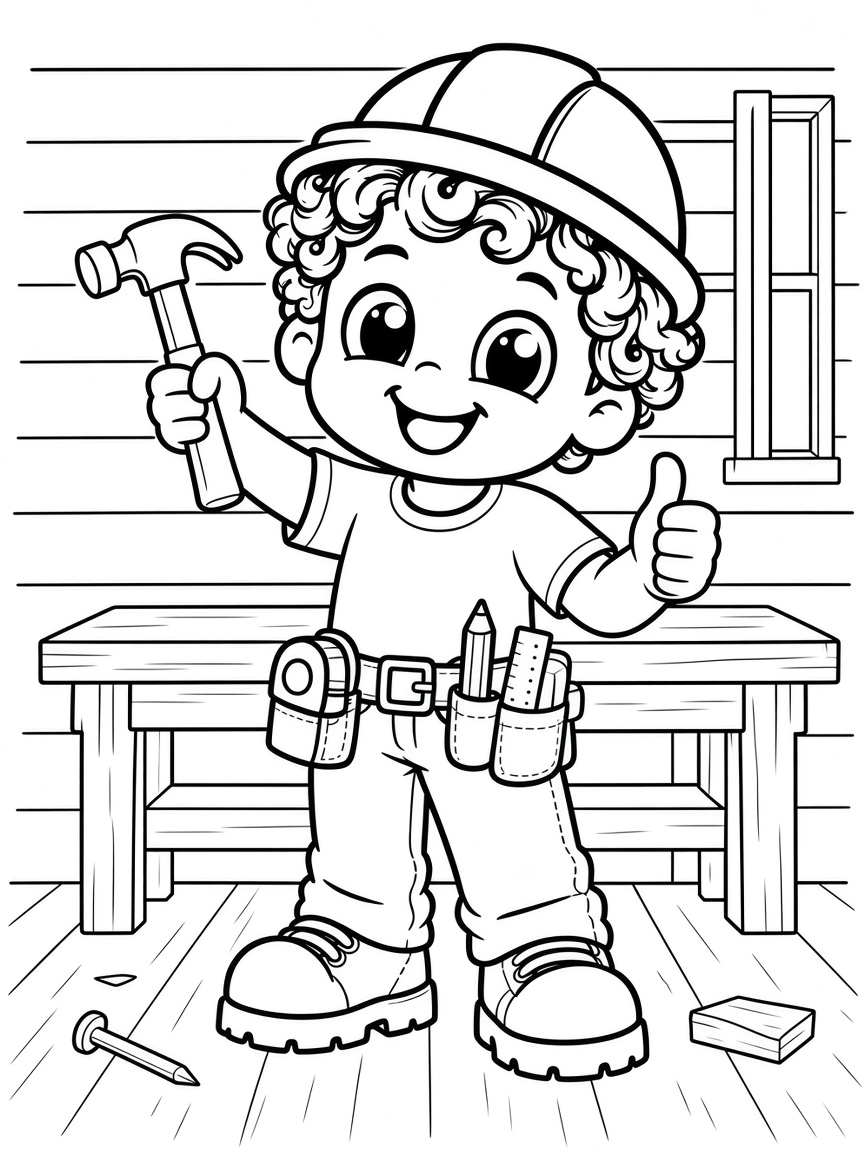
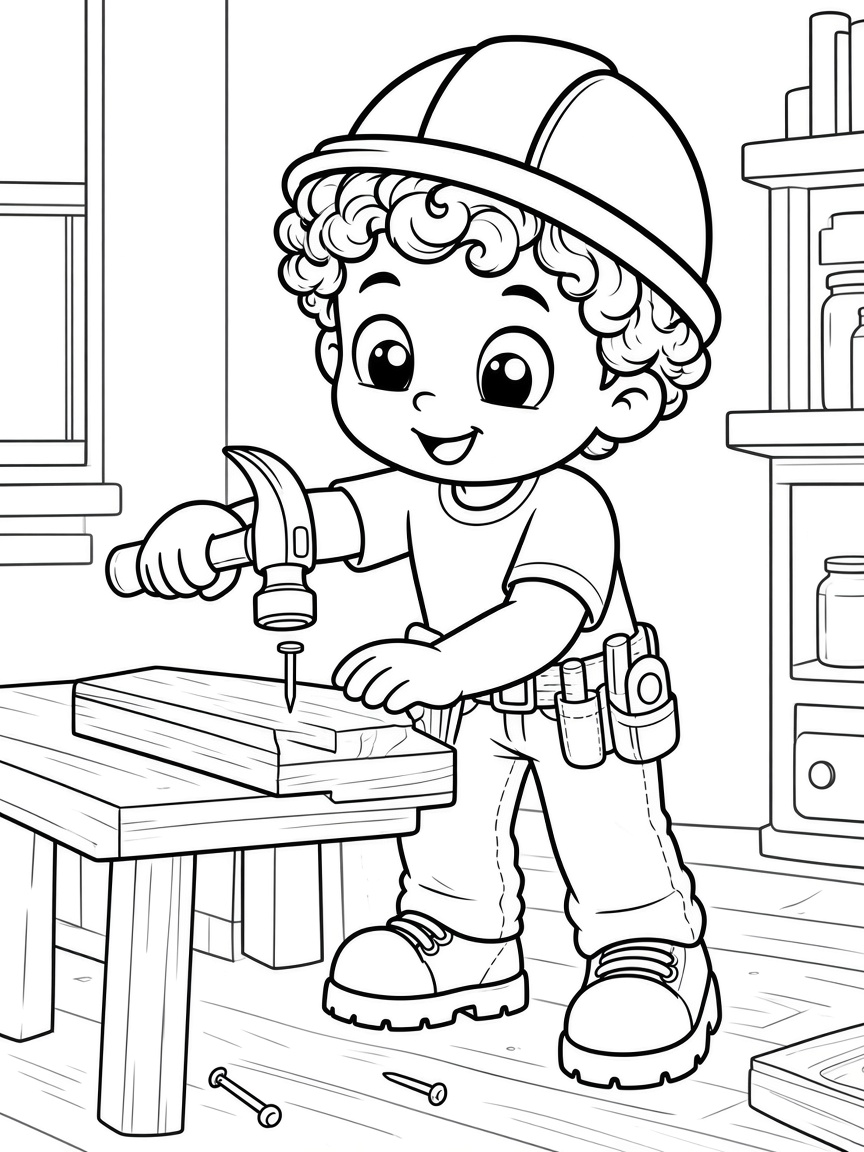
Redraw opening pages as a workday story.
Kody arrives, plans, hammers, cuts timber on two sawhorses, measures, loads his belt, gears up, and carries the wood. Less waving, more environments.

Changed region(s): [[0.0, 0.0, 1.0, 1.0]]

diff --git a/kody-the-carpenter/PAGE-MAP.md b/kody-the-carpenter/PAGE-MAP.md
@@ -17,38 +17,38 @@ Kody full-body, hard hat, tool belt, hammer up, thumbs up. Colour the hat yellow
 
 ## Opening (pages 1 to 8)
 
-Eleven intro pages was half a 22-page book. This is the same ritual, compressed. Every page has a simple colourable background (floor, wall, window, bench). Not a white void.
+The opening is a workday, not a pose reel. Kody arrives, plans, hammers, cuts, measures, loads his belt, puts on safety gear, then carries the wood. Different body positions each page. Simple colourable environments (yard, garage, workshop). Almost no waving.
 
 ### Page 1 — Meet Kody
-**Visual:** Full body, ta-da or thumbs up. Hat on. Belt on. No workshop.
+**Visual:** Kody walks up the driveway toward his open garage, a board under his arm. House, tree, fence, clouds.
 **Caption:** "This is Kody. Kody loves to build!"
 
 ### Page 2 — Workshop
-**Visual:** Workbench, pegboard with empty tool outlines, little stool, one window.
+**Visual:** Inside, he leans over a plan on the workbench. Pegboard, lumber, open door to the yard.
 **Caption:** "This is where Kody builds."
 
 ### Page 3 — Hammer
-**Visual:** Claw hammer up. Optional nail and scrap of wood.
+**Visual:** Hammering a nail into a board on the bench. Other hand steadies the wood.
 **Caption:** "Kody's hammer. Bang, bang, bang!"
 
 ### Page 4 — Saw
-**Visual:** Handsaw on a plank on a sawhorse. A few big sawdust dots.
+**Visual:** A long timber sits on TWO sawhorses. Handsaw blade is in the wood, mid-cut, sawdust falling. Backyard fence and tree.
 **Caption:** "Kody's saw cuts the wood."
 
 ### Page 5 — Tape measure
-**Visual:** Tape across a board. Numbers 1, 2, 3 only.
+**Visual:** Kneeling, stretching the tape along the board on the horses. Numbers 1, 2, 3. Yard through the open door.
 **Caption:** "Kody always measures first."
 
 ### Page 6 — Tool belt
-**Visual:** Belt close-up. Tape, screwdriver, pencil, level. Hammer in a loop. Drill can sit on the bench beside him, not in a tiny pouch.
+**Visual:** Looking down, sliding the hammer into his belt. Drill on the bench. Pegboard behind him.
 **Caption:** "Everything Kody needs is on his belt."
 
 ### Page 7 — Safety
-**Visual:** One gear-up page. Glasses on. Ear muffs on. Gloves going on or already on. Hat already on. No "put on the hard hat."
+**Visual:** Pulling on a glove. Glasses and ear muffs already on. Drill on the bench. Lumber rack behind.
 **Caption:** "Glasses, ears, gloves. Safety first!"
 
 ### Page 8 — Ready
-**Visual:** Full gear. Stack of 4 to 6 boards. Excited pose.
+**Visual:** Carrying a stack of cut boards toward the open garage door, both hands on the wood. Yard beyond.
 **Caption:** "Kody is ready. Let's build something!"
 
 ---

diff --git a/kody-the-carpenter/DESIGN-BIBLE.md b/kody-the-carpenter/DESIGN-BIBLE.md
@@ -73,14 +73,15 @@ These are colouring pages. They fail if a crayon has nowhere to go.
 
 1. **Black line, white fill. No grey. No beige. No hatching.**
 2. **Thick outer contour.** About 4 to 6 pt at 8.5 x 11. Inner details thinner, but still crayon-friendly.
-3. **One hero per page.** Kody, or Kody plus one object. Backgrounds stay simple: a workbench edge, a sawhorse, a pegboard, a stack of boards. No full workshops stuffed with junk.
-4. **Big colour-in shapes.** Shirt, pants, hat, boots, wood, sky. If a shape is smaller than a thumbnail, delete it.
-5. **Leave skin unshaded.** Kids choose the colour.
-6. **No text inside the drawing** except a tiny workshop sign if needed. Captions sit below the art, in a clear print font, not hand-lettered inside the picture.
-7. **No scary tools.** Handsaw only. Cordless drill OK. No circular saw, mitre saw, table saw, nail gun, angle grinder, utility knife.
-8. **No injury gags.** No smashed thumbs. No sparks in eyes. Safety is calm and happy.
-9. **Same Kody every time.** Same hair, same hat, same belt, same boots. Do not "improve" him page to page.
-10. **Single character.** No extra kids, no parent, no talking animals. The book is Kody. (A bird on the birdhouse page and a dog on the doghouse page are OK. They are props, not costars.)
+3. **One hero per page, actually working.** Kody hammers, saws, measures, carries. Do not default to waving or thumbs-up. Different pose every page.
+4. **Colourable environments.** Yard, garage, workshop. Floor, walls, trees, windows. Kids need big background shapes, not a white void.
+5. **Big colour-in shapes.** Shirt, pants, hat, boots, wood, sky. If a shape is smaller than a thumbnail, delete it.
+6. **Leave skin unshaded.** Kids choose the colour.
+7. **No text inside the drawing** except a tiny workshop sign if needed. Captions sit below the art, in a clear print font, not hand-lettered inside the picture.
+8. **No scary tools.** Handsaw only. Cordless drill OK. No circular saw, mitre saw, table saw, nail gun, angle grinder, utility knife.
+9. **No injury gags.** No smashed thumbs. No sparks in eyes. Safety is calm and happy.
+10. **Same Kody every time.** Same hair, same hat, same belt, same boots. Do not "improve" him page to page.
+11. **Single character.** No extra kids, no parent, no talking animals. The book is Kody. (A bird on the birdhouse page and a dog on the doghouse page are OK. They are props, not costars.)
 
 ## Caption voice
 
